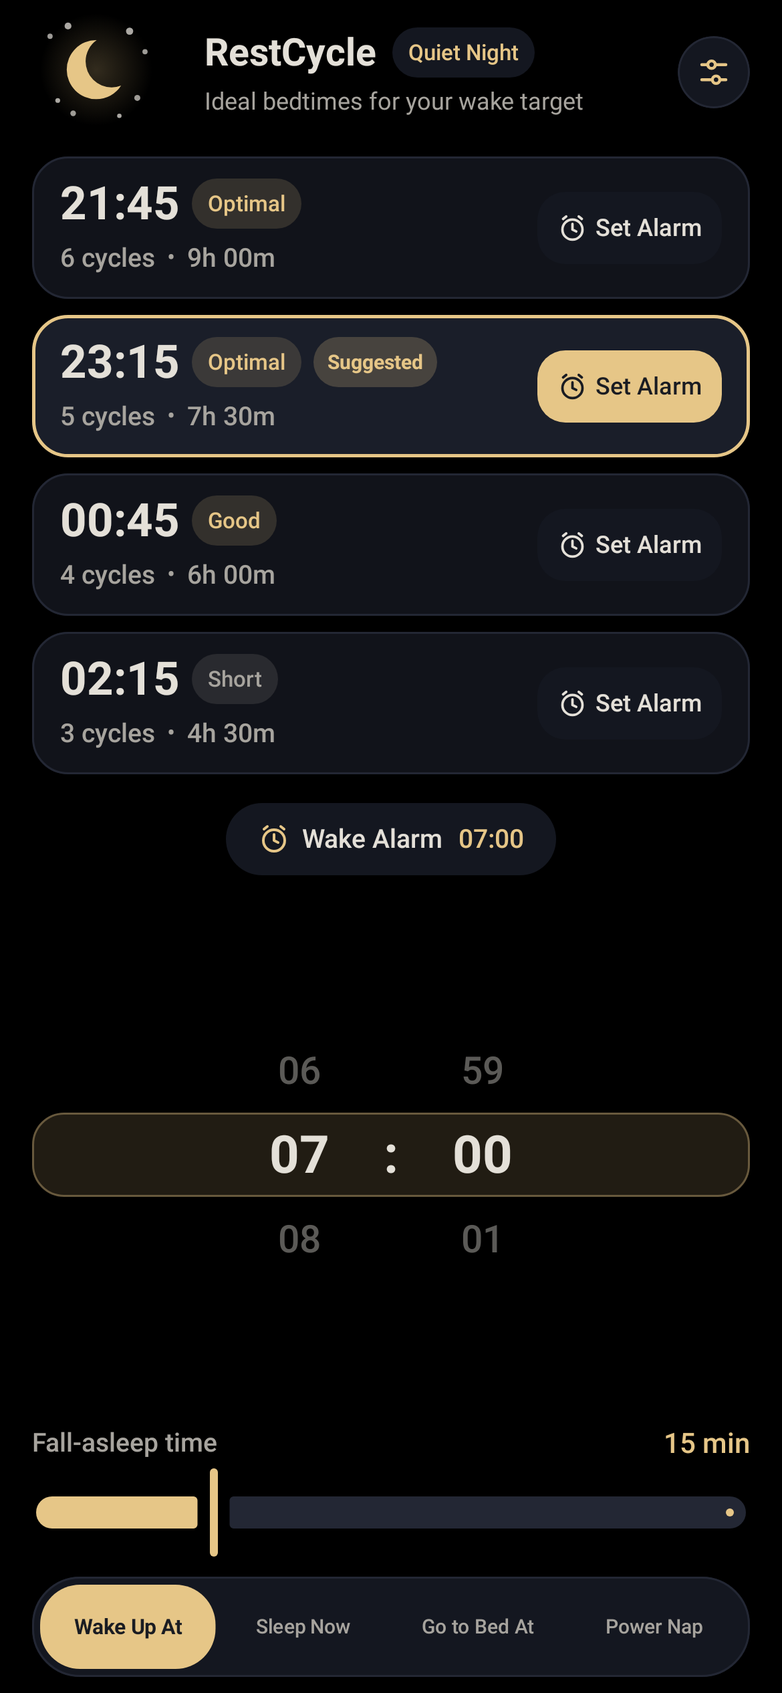
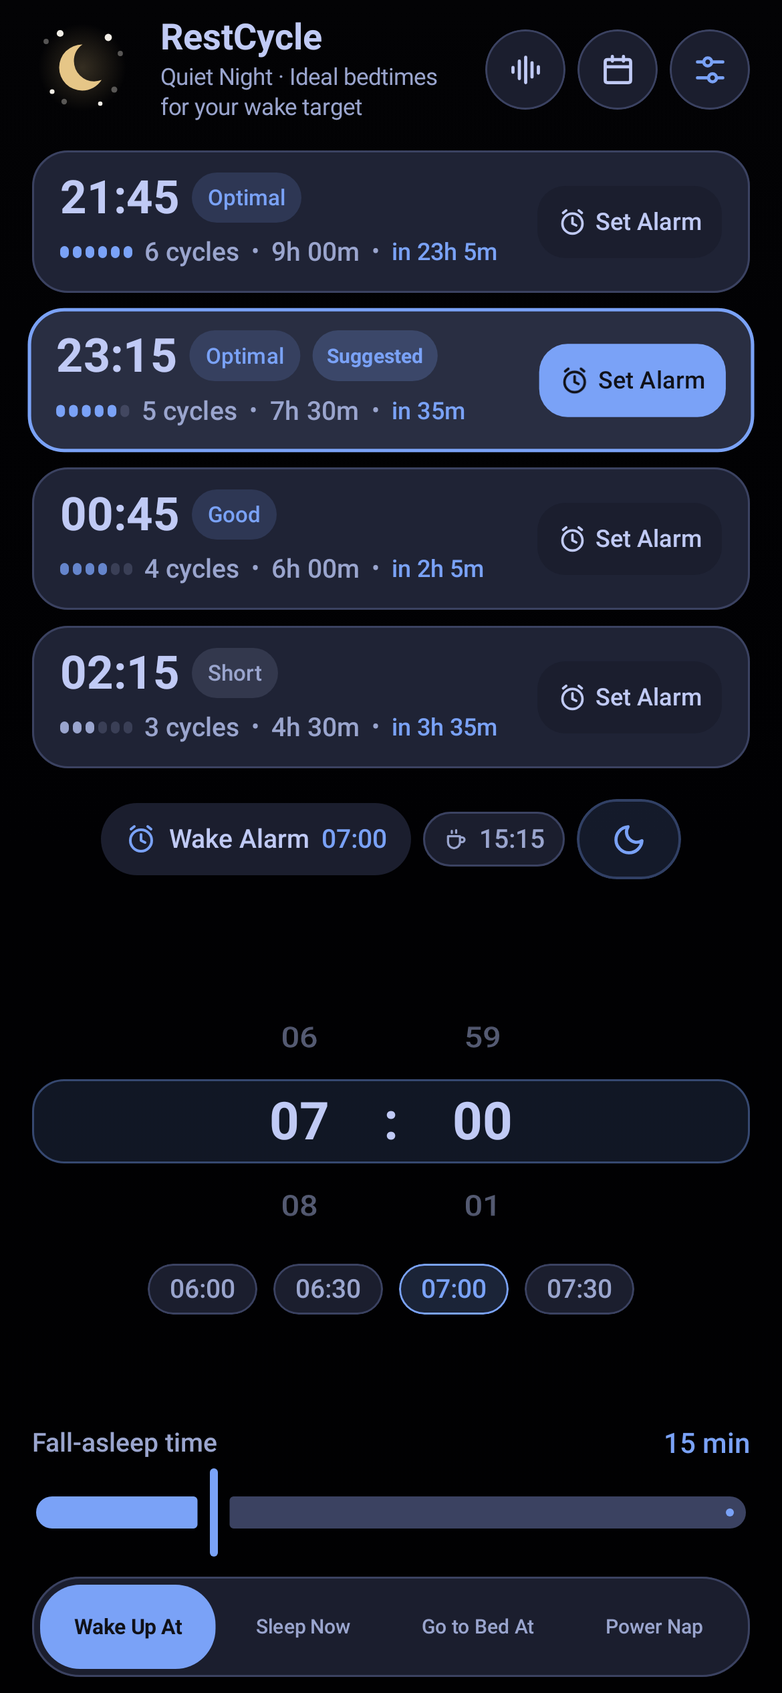
docs: update README and screenshots for v1.9.0

diff --git a/README.md b/README.md
@@ -2,13 +2,14 @@
 
 # RestCycle
 
-**Native Android Sleep Cycle, Ambient Sound & Sleep Journal App**  
+**Native Android Sleep Cycle, Multi-Track Ambient Sound Mixer & Sleep Journal App**  
 *Zero Tracking • 120Hz AMOLED Optimized • Dynamic Celestial Atmosphere Engine*
 
+[![Release](https://img.shields.io/badge/Release-v1.9.0-7AA2F7?style=for-the-badge&logo=github&logoColor=white)](https://github.com/kicsirigo/RestCycle/releases/latest)
 [![Android](https://img.shields.io/badge/Android-8.0%2B%20(API%2026%E2%80%9336)-3DDC84?style=for-the-badge&logo=android&logoColor=white)](https://developer.android.com/)
 [![Kotlin](https://img.shields.io/badge/Kotlin-2.1-7F52FF?style=for-the-badge&logo=kotlin&logoColor=white)](https://kotlinlang.org/)
 [![Jetpack Compose](https://img.shields.io/badge/Jetpack%20Compose-Material%203-4285F4?style=for-the-badge&logo=jetpackcompose&logoColor=white)](https://developer.android.com/jetpack/compose)
-[![Tests](https://img.shields.io/badge/Tests-342%20Passing-2EA043?style=for-the-badge&logo=checkmarx&logoColor=white)](#testing)
+[![Tests](https://img.shields.io/badge/Tests-348%20Passing-2EA043?style=for-the-badge&logo=checkmarx&logoColor=white)](#testing)
 [![Privacy](https://img.shields.io/badge/Privacy-Zero%20Tracking-0F172A?style=for-the-badge&logo=shield&logoColor=white)](#privacy--permissions)
 
 </div>
@@ -17,9 +18,9 @@
 
 ## Overview
 
-**RestCycle** is a minimalist, zero-latency sleep cycle calculator, ambient sleep soundscape player, and all-time sleep journal built natively for Android with **Kotlin**, **Jetpack Compose**, and **Material 3**. Designed for effortless one-handed use in the thumb zone, RestCycle calculates optimal sleep and wake windows based on **90-minute REM sleep cycles** and your personal **sleep latency** — with zero ads, zero telemetry, unified monochrome vector iconography, and an optional in-app GitHub Releases updater.
+**RestCycle** is a minimalist, zero-latency sleep cycle calculator, multi-track lossless ambient sound mixer, and all-time sleep journal built natively for Android with **Kotlin**, **Jetpack Compose**, and **Material 3**. Designed for effortless one-handed use in the thumb zone, RestCycle calculates optimal sleep and wake windows based on **90-minute REM sleep cycles** and your personal **sleep latency** — with zero ads, zero telemetry, unified monochrome vector iconography, expressive micro-interactions, and an optional in-app GitHub Releases updater.
 
-Every interaction reacts in real time: as you scroll the haptic time wheel or switch modes, the entire sky, UI palette, and seamless alpine landscape smoothly transition across **Day**, **Dawn / Dusk**, and **Night** atmospheres.
+Every interaction reacts in real time: as you scroll the haptic time wheel or switch modes, the entire sky, UI palette, and seamless alpine landscape smoothly transition across glare-free sunlit **Day**, **Dawn / Dusk**, and **Night** atmospheres.
 
 ---
 
@@ -27,9 +28,13 @@ Every interaction reacts in real time: as you scroll the haptic time wheel or sw
 
 <div align="center">
 
-| Wake Up At *(Night)* | Sleep Now *(Day)* | Power Nap *(Nord · Twilight)* | Go to Bed At *(Night)* |
-| :---: | :---: | :---: | :---: |
-| <img src="docs/screenshots/01_wake_up_night.png" alt="Wake Up At - Night" width="210" /> | <img src="docs/screenshots/02_sleep_now_day.png" alt="Sleep Now - Day" width="210" /> | <img src="docs/screenshots/03_power_nap_nord.png" alt="Power Nap - Nord Twilight" width="210" /> | <img src="docs/screenshots/04_catppuccin_night.png" alt="Go to Bed At - Night" width="210" /> |
+| Wake Up At *(Tokyo Night)* | Sleep Now *(Solarized · Daylight)* | Power Nap *(Nord · Twilight)* |
+| :---: | :---: | :---: |
+| <img src="docs/screenshots/01_wake_up_night.png" alt="Wake Up At - Tokyo Night" width="240" /> | <img src="docs/screenshots/02_sleep_now_day.png" alt="Sleep Now - Solarized Daylight" width="240" /> | <img src="docs/screenshots/03_power_nap_nord.png" alt="Power Nap - Nord Twilight" width="240" /> |
+
+| Multi-Track Sound Mixer | Sleep Calendar & 7-Day Trends | 6 Themes & Settings *(Rosé Pine)* |
+| :---: | :---: | :---: |
+| <img src="docs/screenshots/04_sound_mixer.png" alt="Multi-Track Ambient Sound Mixer" width="240" /> | <img src="docs/screenshots/05_sleep_calendar_trends.png" alt="Sleep Calendar and 7-Day Sleep Trend" width="240" /> | <img src="docs/screenshots/06_settings_themes.png" alt="6 Curated Themes and Settings" width="240" /> |
 
 </div>
 
@@ -40,40 +45,38 @@ Every interaction reacts in real time: as you scroll the haptic time wheel or sw
 ### 4 Reactive Calculation Modes
 | Mode | Purpose | How It Works |
 | :--- | :--- | :--- |
-| **Wake Up At** | Plan your bedtime | Pick when you want to wake up; RestCycle works backwards in 90-minute cycles minus your sleep latency. |
-| **Sleep Now** | Instant wake targets | Uses your live device clock + sleep latency to calculate optimal wake-up times for 6 down to 1 cycles. |
+| **Wake Up At** | Plan your bedtime | Pick when you want to wake up; RestCycle works backwards in 90-minute cycles (6 down to 3 cycles) minus your sleep latency. |
+| **Sleep Now** | Instant wake targets | Uses your live device clock + sleep latency to calculate optimal wake-up times for 6 down to 3 cycles (`9h 00m` – `4h 30m`). |
 | **Go to Bed At** | Plan future sleep | Choose a planned bedtime and see every optimal wake-up window ahead. |
-| **Power Nap** | Science-backed naps | One-tap **10 min** (Micro), **20 min** (Optimal), and **90 min** (Full Cycle) presets with built-in sleep-inertia guidance. |
+| **Power Nap** | Science-backed naps | One-tap **10 min** (Quick Boost), **20 min** (Classic Power Nap), and **90 min** (Full Cycle) presets with built-in sleep-inertia guidance. |
 
-### Ambient Sleep Sounds, Sleep Timer & Screen-Off Playback
-- **6 High-Fidelity Built-In Offline Soundscapes** — **Ocean Waves**, **Thunderstorm**, **Fireplace**, **Night Crickets**, **432 Hz Ambient**, and **Singing Bowl** bundled directly in the APK (zero internet required).
-- **Universal Sound Picker Dialog** — Accessible from the top status bar across all 4 modes as well as inside the landscape scene and breathing exercise, with a live **Volume slider (`10%–100%`)** and **Sleep Timer** (`∞`, `15m`, `30m`, `45m`, `60m`) featuring a smooth **30-second fade-out** before stopping.
-- **Continuous Screen-Off Audio** — Powered by a persistent `mediaPlayback` foreground service (`AmbientSoundService`) with notification playback controls so audio keeps playing reliably when you lock your phone or switch apps.
+### Multi-Track Ambient Sound Mixer, Lossless FLAC Packs & Screen-Off Playback
+- **Multi-Track Mixer (Up to 3 Simultaneous Layers) & Saved Mixes** — Blend up to 3 soundscapes at once (e.g., *Thunderstorm* + *Fireplace*) with expandable inline per-track volume sliders, animated live equalizer bars, curated 1-tap presets (*Cozy Storm*, *Forest Night*, *Zen Rain*), and custom user-saved mixes persisted in DataStore.
+- **On-Demand Lossless 48 kHz 16-Bit Stereo FLAC Packs + Offline Previews** — Keeps the release APK ultra-compact (**~2.7 MB**) by bundling 15-second offline previews for all 6 soundscapes (**Ocean Waves**, **Thunderstorm**, **Fireplace**, **Night Crickets**, **432 Hz Ambient**, **Singing Bowl**) while letting you download full studio-quality lossless `.flac` packs on demand directly inside the Sound sheet.
+- **Perceptual Volume Curve, Sleep Timer & Pop-Free Screen-Off Audio** — Smooth quadratic perceptual volume slider (`0%–100%`), **Sleep Timer** (`∞`, `15m`, `30m`, `45m`, `60m`) with a gradual **30-second fade-out**, and a persistent `mediaPlayback` foreground service (`AmbientSoundService`) with `PARTIAL_WAKE_LOCK` so audio plays seamlessly with the screen locked.
 
-### All-Time Sleep Calendar, Per-Minute Manual Log & Personal Insights
-- **All-Time Monthly Sleep Calendar** — Browse every month of your sleep history with all-time KPI cards (**Nights**, **Avg sleep**, **Streak**), per-day mood indicators, daily session details, and single-tap entry removal.
-- **Quick-Tap Protection** — Accurately measures actual elapsed sleep duration without fabricating cycles on accidental or short sessions.
-- **Per-Minute Manual Retroactive Entry (`+ Log`)** — Log forgotten past nights on any day `<= today` using the embedded **HapticTimeWheel** (exact hour & minute scrolling) plus `±1 min` fine-tune steppers, live duration/cycle preview, and 4 wake-up mood ratings (**Exhausted**, **Fair**, **Rested**, **Energized**).
-- **Personal Sleep Cycle Pattern Insight** — Once you log at least 2 multi-hour nights, RestCycle analyzes which cycle count leaves you feeling rested or energized most consistently.
-- **Offline JSON Backup (Export / Import)** — Export your entire All-Time Sleep Calendar to a portable `.json` file and import/merge backups via Android's Storage Access Framework in Settings without duplicating existing nights.
+### All-Time Sleep Calendar, 7-Day Trends & Factor Insights
+- **7-Day Sleep Trend Chart, Sleep Debt & Bedtime Consistency** — Interactive 7-day bar chart plotted against your 7.5h sleep target, cumulative weekly **Sleep Debt**, and circular **Bedtime Consistency %** that accurately tracks schedule steadiness even across midnight rollovers.
+- **Sleep Factor Tags & Correlation Insights** — Tag nights on wake-up or manual log with 6 custom monochrome-icon factors (**Late Caffeine**, **Exercise**, **Stress**, **Late Meal**, **Screen Time**, **Alcohol**). RestCycle automatically correlates tags with your morning mood alongside your personal optimal cycle-count insight.
+- **Decluttered Monthly Calendar & Per-Minute Manual Log (`+ Log`)** — Unified 3-column KPI strip (**Nights**, **Avg sleep**, **Streak**), borderless empty day cells, directional horizontal month transitions, quick-tap protection, embedded **HapticTimeWheel** with `±1 min` steppers, and 4 wake-up mood ratings (**Exhausted**, **Fair**, **Rested**, **Energized**).
+- **Offline JSON Backup (Export / Import)** — Export your entire All-Time Sleep Calendar (including factor tags) to a portable `.json` file and import/merge backups via Android's Storage Access Framework without duplicating existing nights.
 
 ### Dynamic Celestial Atmosphere Engine & 6 Curated Themes
-All **6 developer-grade themes** dynamically adapt across **3 time-of-day phases (`DAY`, `DAWN_DUSK`, `NIGHT`)** — synchronized across the sky backdrop, cards, monochrome vector icons, status bar, and landscape illustration, plus an optional **Pure AMOLED Black (`#000000`)** night mode toggle:
+All **6 classic developer-grade themes** dynamically adapt across **3 time-of-day phases (`DAY`, `DAWN_DUSK`, `NIGHT`)** — featuring glare-free sunlit mid-tone `DAY` skies, synchronized across the backdrop, cards, monochrome vector icons, system bars, and alpine landscape, plus an optional **Pure AMOLED Black (`#000000`)** night mode toggle:
 
-- **Tokyo Night** *(Default)* — Crisp Tokyo Day, warm Neon Twilight, and deep Tokyo Night.
-- **Nord** — Polar Snow Storm by day, Frost & Aurora Twilight at dawn/dusk, and Polar Night at night.
-- **Everforest** — Warm botanical parchment by day, mossy twilight, and deep forest night.
-- **Gruvbox** — Warm retro parchment daylight, Ember Twilight, and Gruvbox Dark night.
-- **Dracula** — Bright daylight lavender, violet twilight, and classic Dracula night.
-- **Rosé Pine** — Soft Dawn daylight, dusky rose twilight, and Rosé Pine Moon night.
+- **Tokyo Night** *(Default)* — Sunlit Tokyo Sky by day, Neon Twilight at dawn/dusk, and deep Tokyo Night.
+- **Nord** — Glare-free Polar Blue by day, Frost & Aurora Twilight at dawn/dusk, and Polar Night at night.
+- **Everforest** — Sunlit Forest Sage by day, mossy twilight, and deep forest night.
+- **Gruvbox** — Warm Amber Ochre by day, Ember Twilight, and Gruvbox Dark night.
+- **Solarized** — Sunlit Solarized Teal by day, warm dusk horizon, and classic Solarized Dark night.
+- **Rosé Pine** — Soft Rose Dusk by day, dusky rose twilight, and Rosé Pine Moon night.
 
-### One-Handed Ergonomics, Iconography & Utilities
-- **Unified Monochrome Vector Iconography & Minimalist Moon Icon** — Zero Unicode emojis anywhere in the UI; every button, pill, setting, mood, and sound uses crisp 24dp monochrome vector paths dynamically tinted to the active theme, paired with a minimalist crescent moon adaptive launcher icon.
+### One-Handed Ergonomics, Expressive Motion & Utilities
+- **Material 3 Expressive Micro-Interactions** — Rolling odometer digit animations (`RollingOdometerText`), spring press-scale feedback, staggered card entrances, expressive overshoot mode switcher, enlarged animated Moon sleep session pill, and unified `ModalBottomSheet` drawers for Sounds, Calendar, and Settings.
+- **Unified Monochrome Vector Iconography** — Zero Unicode emojis anywhere in the UI; every button, pill, setting, mood, factor tag, and sound uses crisp 24dp monochrome vector paths dynamically tinted to the active theme, paired with a minimalist crescent moon adaptive launcher icon.
 - **3D Cylindrical Haptic Time Wheel & Quick Time Chips** — GPU-accelerated 3D cylinder perspective with edge fade, tactile `CLOCK_TICK` feedback, tabular numerals (`tnum`), automatic `AM ↔ PM` toggling across `11 ↔ 12`, and one-tap preset chips (`06:00–07:30` / `22:00–00:00`).
-- **Borderless Alpine Landscape Scene** — Custom Jetpack Compose `Canvas` alpine landscape in *Sleep Now* and *Power Nap* modes with living time-of-day micro-animations.
-- **4-7-8 Sleep Breathing Guide** — Built-in 120Hz breathing orb animation (`4s Inhale • 7s Hold • 8s Exhale`) with subtle haptic cues and quick ambient sound access.
-- **Caffeine Cutoff Indicator & Bedtime Reminder** — Displays your recommended last caffeine time (Off / 6h / 8h / 10h before bedtime) plus an optional local `AlarmManager` wind-down notification 20 minutes before bedtime.
-- **Home Screen Widget & App Shortcuts** — Glanceable 4×1 home screen widget displaying live 5-cycle & 6-cycle wake windows, plus long-press launcher shortcuts (*Sleep Now*, *Power Nap*, *Breathe*).
+- **Borderless Alpine Landscape Scene & 4-7-8 Breathing Guide** — Custom Jetpack Compose `Canvas` alpine landscape in *Sleep Now* and *Power Nap* modes plus a 120Hz 4-7-8 breathing orb (`4s Inhale • 7s Hold • 8s Exhale`) with subtle haptic pacing.
+- **Caffeine Cutoff, Bedtime Reminder, Widget & Shortcuts** — Recommended last caffeine time (Off / 6h / 8h / 10h), optional local `AlarmManager` wind-down notification 20 minutes before bedtime, glanceable 4×1 home screen widget, and long-press launcher shortcuts (*Sleep Now*, *Power Nap*, *Breathe*).
 - **Native Alarm & Timer Integration** — Tap any cycle card to launch Android's native `AlarmClock` (`ACTION_SET_ALARM` / `ACTION_SET_TIMER`) with the exact target time and label.
 - **7-Language Localization & In-App Switcher** — Switch languages anytime inside Settings (**Auto**, **English**, **Magyar**, **Español**, **Română**, **Polski**, **Português**, **Português (BR)**) with strict lint translation parity checks.
 - **In-App Update Download Manager & Direct Installer** — Opening Settings quietly checks GitHub Releases against your installed version; when an update is available, you can download the signed APK directly in-app with a live progress bar, MB readout, Cancel button, and one-tap system installer handoff via `FileProvider` (**never forced**).
@@ -84,11 +87,12 @@ All **6 developer-grade themes** dynamically adapt across **3 time-of-day phases
 
 RestCycle has **zero ads, zero analytics, and zero background tracking**:
 - `com.android.alarm.permission.SET_ALARM` — Sets alarms and timers in your system Clock app when you tap a sleep option.
-- `android.permission.INTERNET` — Used strictly when you check for or download an update from `github.com/kicsirigo/RestCycle`.
+- `android.permission.INTERNET` — Used strictly for optional GitHub Releases update checks/downloads and on-demand lossless FLAC sound pack downloads from `github.com/kicsirigo/RestCycle`.
 - `android.permission.POST_NOTIFICATIONS` — Used for optional bedtime wind-down reminders and the ambient sound playback notification.
 - `android.permission.FOREGROUND_SERVICE` & `android.permission.FOREGROUND_SERVICE_MEDIA_PLAYBACK` — Keeps ambient sleep audio playing reliably when the screen turns off.
+- `android.permission.WAKE_LOCK` — Prevents audio dropouts/pops while the device CPU enters sleep mode during ambient playback.
 - `android.permission.REQUEST_INSTALL_PACKAGES` — Enables launching Android's system package installer directly after downloading an update APK inside Settings.
-- **Local Storage Only:** All preferences and your All-Time Sleep Calendar history are stored locally on-device via **Jetpack DataStore** (and portable offline `.json` backups whenever you choose to export).
+- **Local Storage Only:** All preferences, saved sound mixes, and your All-Time Sleep Calendar history are stored locally on-device via **Jetpack DataStore** (plus portable offline `.json` backups whenever you choose to export).
 
 ---
 
@@ -96,8 +100,8 @@ RestCycle has **zero ads, zero analytics, and zero background tracking**:
 
 Pre-built APKs are available on the [**Releases**](https://github.com/kicsirigo/RestCycle/releases) page:
 
-- **`RestCycle-release.apk`** (~9.0 MB, includes 6 bundled hi-fi MP3 ambient soundscapes) — Recommended. R8-minified, resource-shrunk, and signed with the project release key.
-- **`RestCycle-debug.apk`** (~20 MB) — Unminified debug build for testing and inspection.
+- **`RestCycle-release.apk`** (~2.7 MB, with 6 offline sound previews + on-demand lossless FLAC packs) — Recommended. R8-minified, resource-shrunk, and signed with the project release key.
+- **`RestCycle-debug.apk`** (~14 MB) — Unminified debug build for testing and inspection.
 
 ### Verify APK Integrity
 Download `SHA256SUMS.txt` from the release and verify locally:
@@ -121,7 +125,7 @@ Expected signing certificate:
 ## Tech Stack & Architecture
 
 - **Language:** Kotlin 2.1 (JVM 21 toolchain)
-- **UI:** Jetpack Compose + Material 3 (Edge-to-Edge, `Canvas` rendering, `CompositionLocal` atmosphere provider)
+- **UI:** Jetpack Compose + Material 3 (Edge-to-Edge, `Canvas` rendering, `ModalBottomSheet`, `CompositionLocal` atmosphere provider)
 - **State & Persistence:** `ViewModel`, `StateFlow`, `androidx.datastore:datastore-preferences`
 - **Min / Target SDK:** API 26 (Android 8.0) / API 36 (Android 16)
 - **Testing:** JUnit 4, Kotlin Coroutines Test, Robolectric, Compose UI Test, Espresso Intents
@@ -131,18 +135,20 @@ app/src/main/java/com/restcycle/app/
 ├── MainActivity.kt                          # Edge-to-edge host, SAF backup launchers, shortcut intents
 ├── RestCycleApplication.kt                  # Application entry point & DI container
 ├── data/preferences/
-│   └── LatencyPreferencesRepository.kt      # DataStore persistence (latency, theme, history, settings)
+│   └── LatencyPreferencesRepository.kt      # DataStore persistence (latency, theme, mixes, history, settings)
 ├── domain/
 │   ├── calculator/
 │   │   ├── SkyPhaseResolver.kt              # Time-of-day atmosphere phase resolver
-│   │   └── SleepCycleCalculator.kt          # 90-min cycle math, Power Nap presets, midnight rollover
+│   │   └── SleepCycleCalculator.kt          # 90-min cycle math (6–3 cycles), Power Nap presets, rollover
 │   └── model/
-│       ├── SleepContracts.kt                # Modes, TimeFormatPreference, AtmospherePhase, domain models
-│       └── SleepHistoryRecord.kt            # All-time history codec, cycle insight analytics & JSON backup
+│       ├── SleepContracts.kt                # Modes, AtmospherePhase, domain models
+│       └── SleepHistoryRecord.kt            # History codec, 7-day trends, sleep debt, circular consistency, factor insights & JSON backup
 ├── platform/
 │   ├── audio/
-│   │   ├── AmbientSoundGenerator.kt         # 6 standalone MP3 soundscapes, fade math & playback state
-│   │   └── AmbientSoundService.kt           # mediaPlayback ForegroundService & sleep timer countdown
+│   │   ├── AmbientSoundGenerator.kt         # Multi-track (up to 3 layers) FLAC/preview mixer & perceptual volume curve
+│   │   ├── AmbientSoundPackManager.kt       # On-demand lossless FLAC pack downloader & storage manager
+│   │   ├── AmbientSoundService.kt           # mediaPlayback ForegroundService, WAKE_LOCK & sleep timer fade-out
+│   │   └── SoundMixPreset.kt                # Curated & custom saved sound mix codec
 │   ├── intent/AlarmScheduler.kt             # Native AlarmClock alarm & timer handoff
 │   ├── reminder/                            # Local AlarmManager bedtime wind-down notifications
 │   ├── time/TimeFormatProvider.kt           # System / 12h / 24h clock format provider
@@ -152,18 +158,19 @@ app/src/main/java/com/restcycle/app/
     ├── screen/RestCycleScreen.kt            # Adaptive thumb-zone layout & mode orchestration
     ├── viewmodel/SleepViewModel.kt          # Reactive unidirectional state flow
     ├── components/
-    │   ├── AmbientSoundDialog.kt            # Sound picker, volume slider & sleep timer chips
+    │   ├── AmbientSoundDialog.kt            # Multi-track mixer sheet, per-track sliders, saved mixes & FLAC downloads
     │   ├── BreathingExerciseDialog.kt       # 4-7-8 breathing orb with haptic pacing
-    │   ├── CelestialHeader.kt               # Header with live status & Settings button
+    │   ├── CelestialHeader.kt               # Header with live status & 3 uniform circular action buttons
     │   ├── CelestialLandscapeScene.kt       # Borderless alpine Canvas scene
     │   ├── HapticTimeWheel.kt               # 12h/24h snapping wheel with CLOCK_TICK & AM/PM auto-flip
     │   ├── LatencySlider.kt                 # Animated 0–60 min sleep latency slider
-    │   ├── ModeSegmentedBar.kt              # Spring-animated 4-mode navigation pill
+    │   ├── ModeSegmentedBar.kt              # Expressive spring-animated 4-mode navigation pill
+    │   ├── MotionComponents.kt              # RollingOdometerText, LiveEqualizerIcon & press-scale micro-interactions
     │   ├── PowerNapSection.kt               # 10 / 20 / 90 min power nap selector + inertia tip
-    │   ├── RestCycleIcons.kt                # Unified 24dp monochrome vector icon library
-    │   ├── SettingsDialog.kt                # Themes, clock format, languages, backup & in-app updater
-    │   ├── SleepOptionCard.kt               # Cycle cards with quality badges & alarm handoff
-    │   └── SleepTrackerDialog.kt            # All-time calendar, per-minute manual log & cycle insight
+    │   ├── RestCycleIcons.kt                # Unified 24dp monochrome vector icon library (including 6 factor icons)
+    │   ├── SettingsDialog.kt                # Bottom sheet: 6 themes, AMOLED, languages, JSON backup & in-app updater
+    │   ├── SleepOptionCard.kt               # Staggered cycle cards with rolling times, quality badges & alarm handoff
+    │   └── SleepTrackerDialog.kt            # Calendar sheet, 7-day trend chart, sleep debt, consistency & factor tags
     └── theme/
         ├── AtmosphereTheme.kt               # Unified 3-phase color interpolation across 6 themes + AMOLED
         └── Type.kt                          # Typography with tabular numerals (tnum)
@@ -183,7 +190,7 @@ app/src/main/java/com/restcycle/app/
 git clone https://github.com/kicsirigo/RestCycle.git
 cd RestCycle
 
-# Run all 342 unit & Compose/Robolectric E2E tests
+# Run all 348 unit & Compose/Robolectric E2E tests
 ./gradlew testDebugUnitTest
 
 # Run Android Lint checks
@@ -209,14 +216,14 @@ export RESTCYCLE_KEY_PASSWORD="your-key-password"
 
 ## Testing
 
-The test suite includes **342 automated tests** across 25 test suites covering:
-- Sleep cycle math, midnight/DST boundaries, quick-tap protection, and Power Nap calculations
-- Dynamic Celestial Atmosphere Engine phase detection & color interpolation across all 6 themes + Pure AMOLED Black
-- All-Time Sleep Calendar, per-minute manual logging, personal cycle pattern insight, and offline JSON export/import/merge
-- Ambient audio track resources, fade-out math, and 2.5-hour stereo curve bounds
+The test suite includes **348 automated tests** across 26 test suites covering:
+- Sleep cycle math (6–3 cycles), midnight/DST boundaries, quick-tap protection, and Power Nap calculations
+- Dynamic Celestial Atmosphere Engine phase detection & color interpolation across all 6 themes (`Tokyo Night`, `Nord`, `Everforest`, `Gruvbox`, `Solarized`, `Rosé Pine`) + Pure AMOLED Black
+- Multi-track ambient sound mixer (3-layer cap, per-track volume scaling, saved mix preset serialization) and on-demand lossless FLAC pack manager
+- All-Time Sleep Calendar, 7-day sleep trend chart, sleep debt, circular bedtime consistency %, sleep factor tags & correlation insights, per-minute manual logging, and offline JSON export/import/merge
 - In-app GitHub Release update checker, redirect-following streaming downloader, and `FileProvider` install intent generation
 - 7-language localization parity and monochrome vector icon integrity
-- End-to-end Compose UI & Robolectric Tier 1–4 verification (12h/24h wheel rollover, mode switching, settings dialog, alarm intent dispatch)
+- End-to-end Compose UI & Robolectric Tier 1–4 verification (12h/24h wheel rollover, mode switching, settings sheet, alarm intent dispatch)
 
 ---
 
